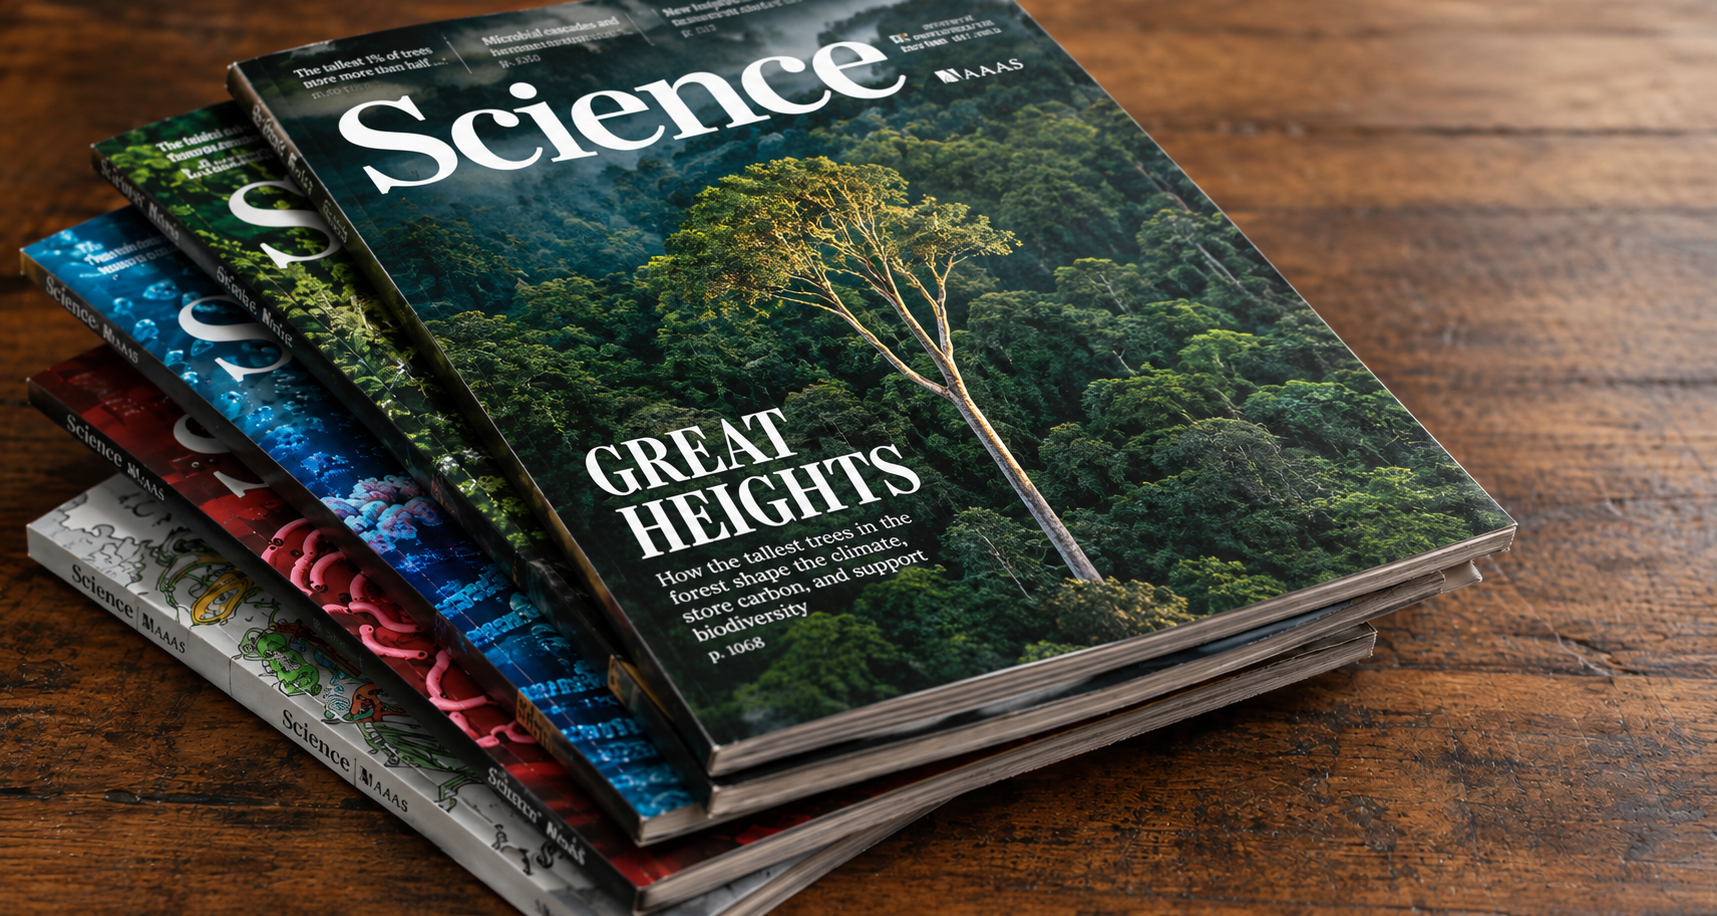
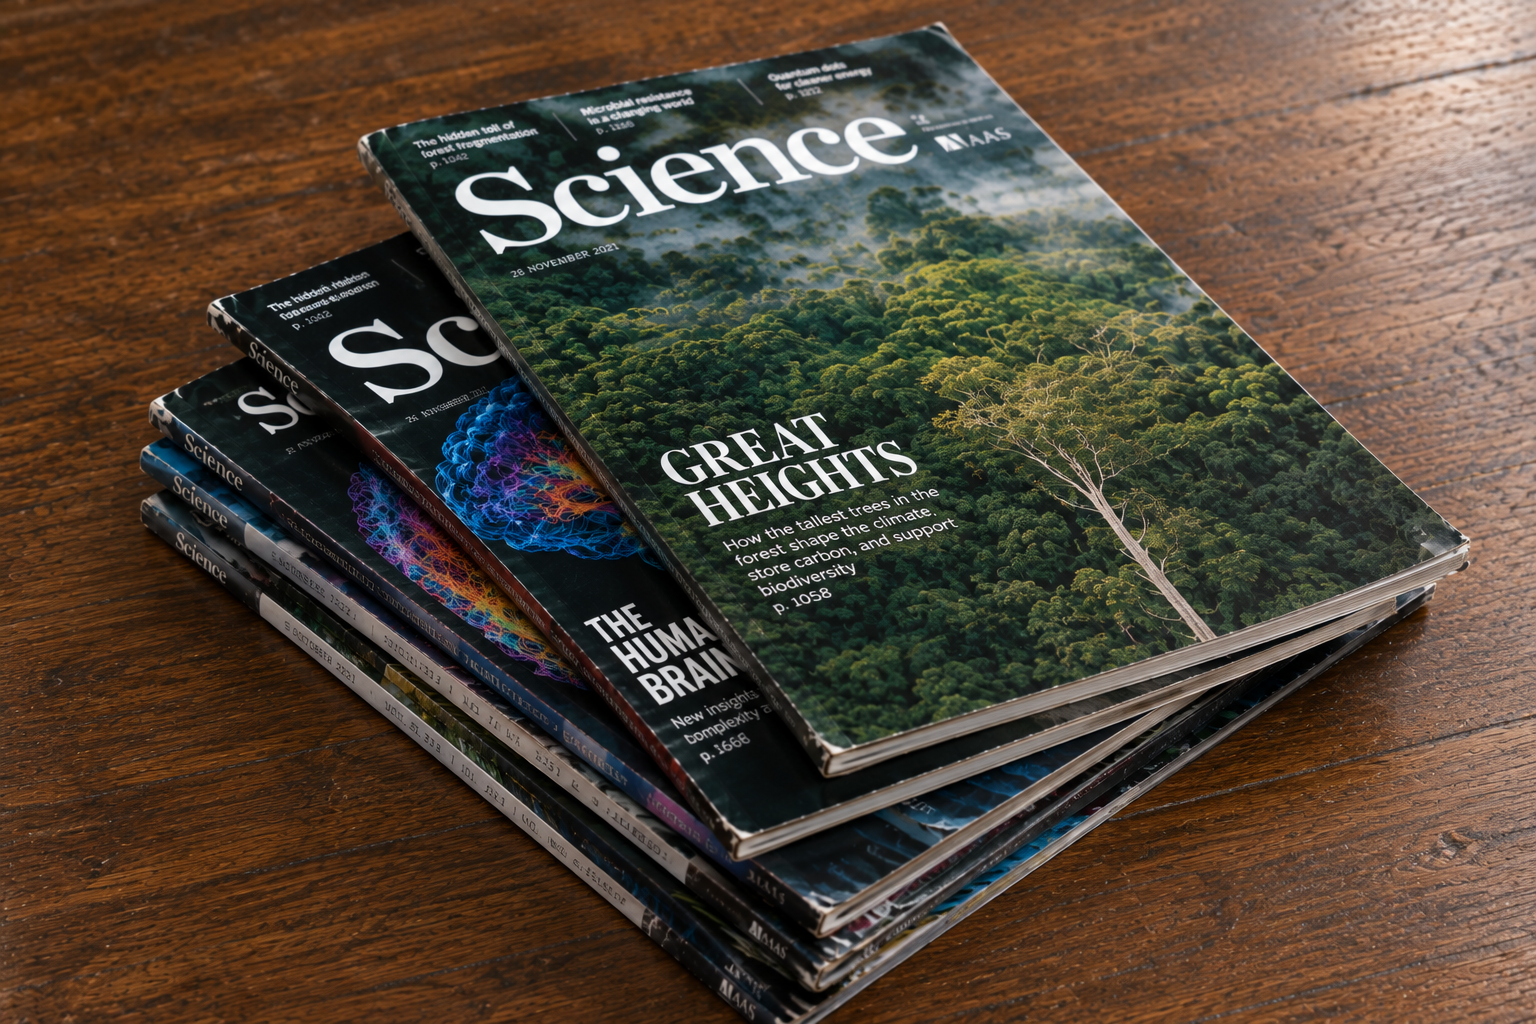
edits

diff --git a/_layouts/blog.html b/_layouts/blog.html
@@ -157,7 +157,7 @@
                 {% if post.image %}
                   <img src="{{ post.image | relative_url }}" alt="{{ post.title }}">
                 {% elsif post.title contains 'Science' or post.url contains 'science' %}
-                  <img src="{{ site.baseurl }}/img/blogpost_2 Science magazine image.png" alt="{{ post.title }}">
+                  <img src="{{ site.baseurl }}/img/blogpost_2 Science magazine image 2.png" alt="{{ post.title }}">
                 {% else %}
                   <img src="{{ site.baseurl }}/img/blogpost_1 intro visual.png" alt="{{ post.title }}">
                 {% endif %}

diff --git a/_posts/2026-10-20-How-I-published-my-PhD-research-in-Science.md b/_posts/2026-10-20-How-I-published-my-PhD-research-in-Science.md
@@ -147,7 +147,7 @@ Many young researchers, including myself, start a PhD hoping to make a groundbre
 
 <!-- Intro Visual / Image 1 -->
 <div class="post-figure intro-fig" style="margin-top: 1em;">
-  <img src="{{ site.baseurl }}/img/blogpost_2 Science magazine image.png" alt="Science magazine cover featuring Morpho butterfly research">
+  <img src="{{ site.baseurl }}/img/blogpost_2 Science magazine image 2.png" alt="Science magazine cover featuring Morpho butterfly research">
 </div>
 
 <p>
